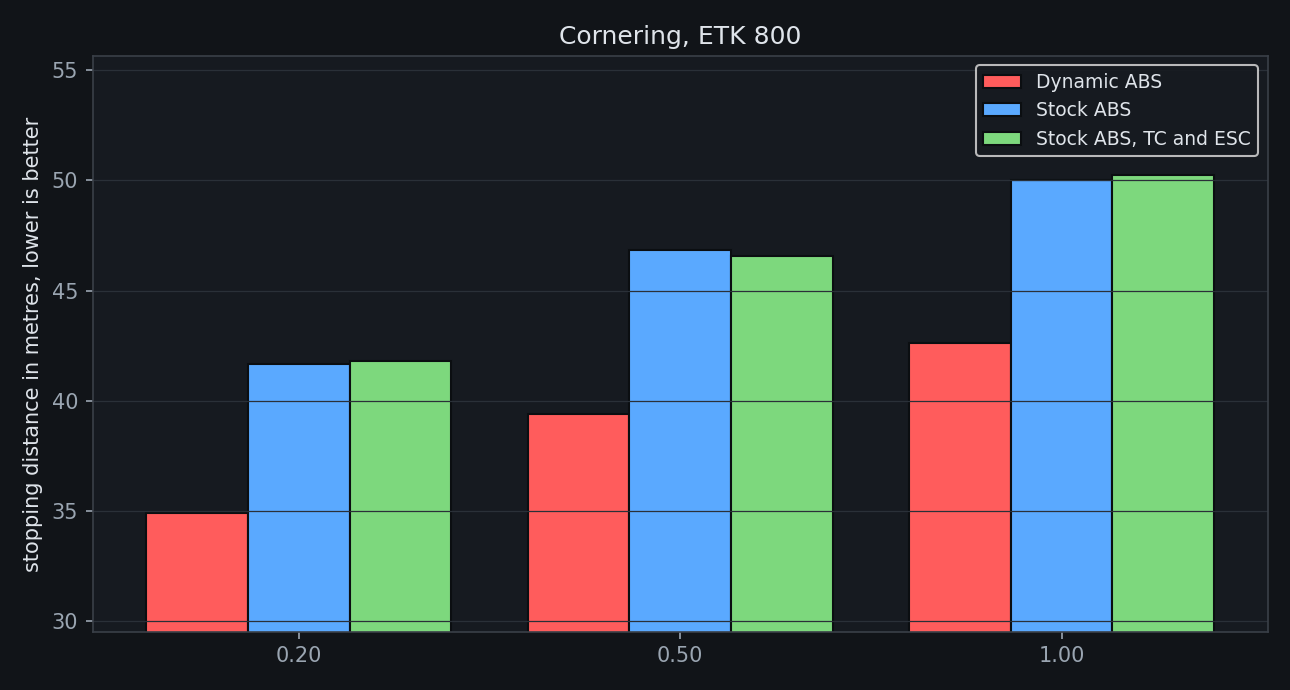
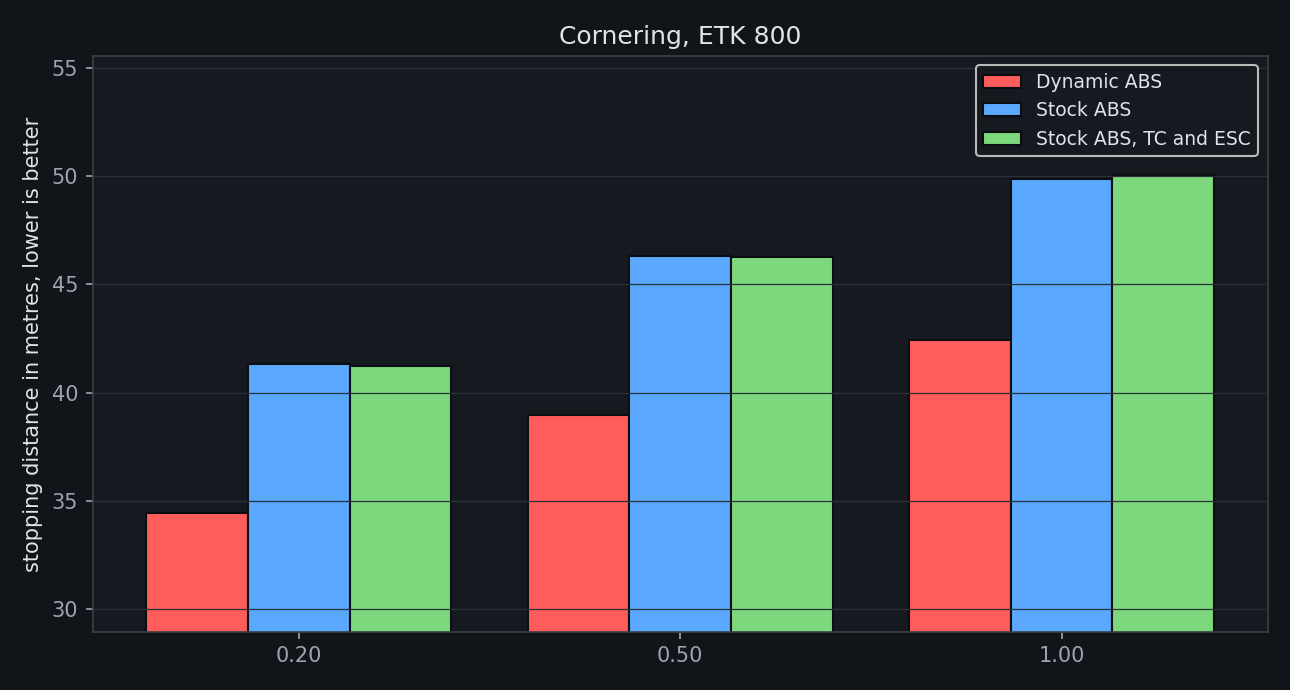
Publish V4.00: results rebuilt with a full respawn before every stop, so no state carries between measurements

diff --git a/README.md b/README.md
@@ -43,13 +43,11 @@ Tested on BeamNG.drive 0.39.4.0.20972 for the surface areas and BeamNG.tech 0.37
 
 Sweeping left corners at 60 miles per hour with full brake, at the steer angles where the controllers separate most.
 
-These cornering figures are provisional. They were collected before the fresh spawn rule described above, so brake state carries between stops. They are being re measured and this table will be replaced when that finishes.
-
 | Steer | Stopping distance against stock | Cars |
 |---|---|---|
-| 0.20 | -5.32 metres | 4 |
-| 0.50 | -6.12 metres | 4 |
-| 1.00 | -5.98 metres | 4 |
+| 0.20 | -3.47 metres | 4 |
+| 0.50 | -4.52 metres | 4 |
+| 1.00 | -5.06 metres | 4 |
 
 ### Surfaces
 
